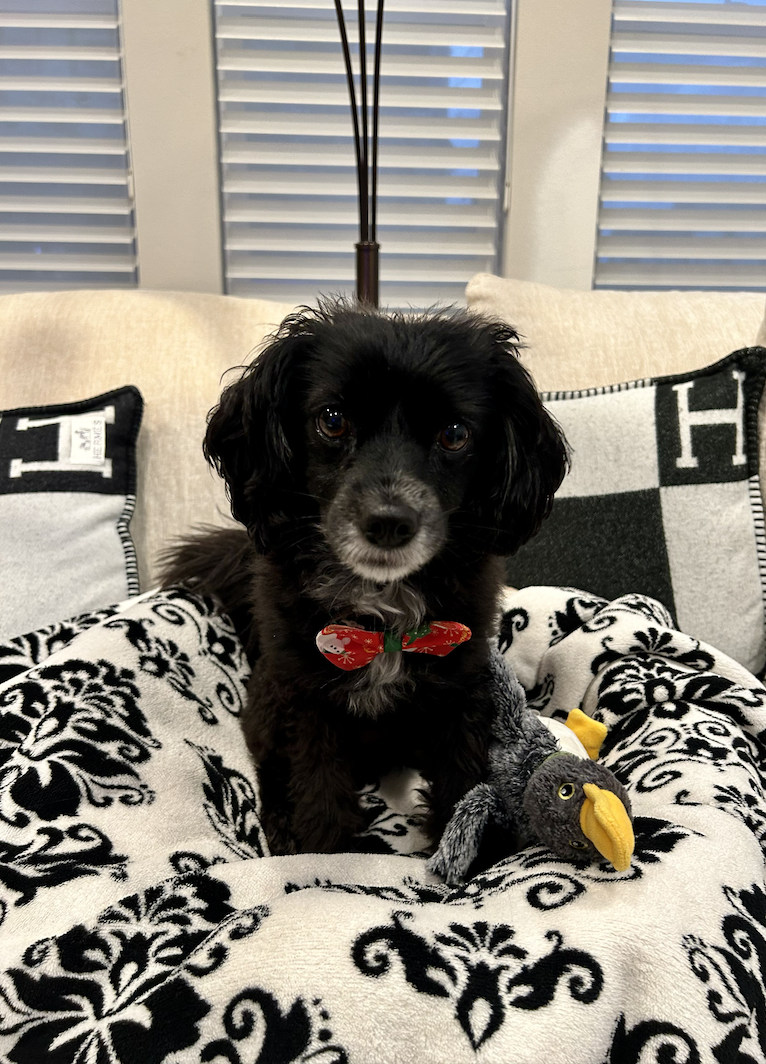
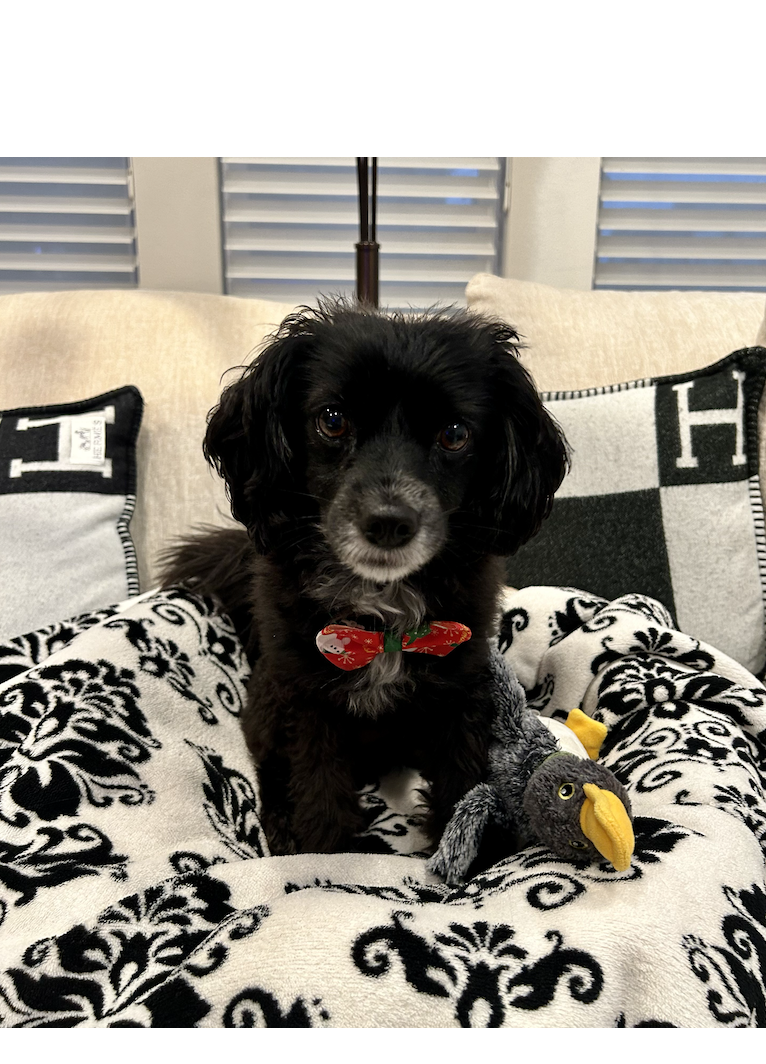
resume reformat, picture crop

Changed region(s): [[0.0, 0.0, 1.0, 0.1551], [0.0, 0.9615, 1.0, 1.0]]

diff --git a/style.css b/style.css
@@ -13,6 +13,8 @@ body {
 :root {
   /* One place to define the accent color; everything else refers to it by name */
   --color-accent: oklch(70% 35% 300);
+  /* A darker version of the accent (same hue and colorfulness) that is readable as text */
+  --color-accent-dark: oklch(from var(--color-accent) 45% c h);
 }
 
 body {
@@ -138,4 +140,114 @@ h6 {
   /* Never let the photo be wider than the screen */
   max-width: 100%;
   height: auto;
+}
+
+/* ---------- Resume page ---------- */
+
+.resume section {
+  /* Lavender line separating each section from the one above */
+  border-top: 1px solid var(--color-accent);
+  padding-block: 1.5em;
+}
+
+.resume h2 {
+  /* Section names act as small labels rather than big headings */
+  margin: 0 0 0.75em;
+  font-size: 1em;
+  text-transform: uppercase;
+  letter-spacing: 0.08em;
+  color: var(--color-accent-dark);
+}
+
+@media (min-width: 45em) {
+  /* On wide screens only: section name in a narrow left column, content on the right */
+  .resume section {
+    display: grid;
+    grid-template-columns: 10em 1fr;
+    column-gap: 2em;
+  }
+
+  .resume section > * {
+    grid-column: 2;
+  }
+
+  .resume section > h2 {
+    grid-column: 1;
+    grid-row: 1;
+  }
+}
+
+.resume section > p {
+  margin: 0;
+}
+
+.resume article + article {
+  /* Space between entries, but not above the first one */
+  margin-top: 1.5em;
+}
+
+.resume article header {
+  /* Title on the left, date/location pushed to the right;
+     the right part wraps underneath when there isn't room */
+  display: flex;
+  flex-wrap: wrap;
+  justify-content: space-between;
+  align-items: baseline;
+  column-gap: 1em;
+}
+
+.resume article h3 {
+  margin: 0;
+  font-size: 1em;
+}
+
+.resume article header p {
+  margin: 0;
+  font-size: 0.9em;
+  color: oklch(50% 3% 300);
+}
+
+.resume article header p + p {
+  /* A second detail line (the tools used) gets a full row of its own */
+  flex-basis: 100%;
+}
+
+.resume article ul {
+  margin: 0.5em 0 0;
+  padding-left: 1.2em;
+}
+
+.resume a {
+  color: var(--color-accent-dark);
+}
+
+.skills {
+  /* Category names in one column, their tags in the other */
+  display: grid;
+  grid-template-columns: auto 1fr;
+  gap: 0.6em 1em;
+  align-items: baseline;
+}
+
+.skills h3 {
+  margin: 0;
+  font-size: 1em;
+}
+
+.skills ul {
+  /* Turn the list into a row of tags that wraps onto new lines */
+  display: flex;
+  flex-wrap: wrap;
+  gap: 0.4em;
+  margin: 0;
+  padding: 0;
+  list-style: none;
+}
+
+.skills li {
+  /* The pill shape: pale accent background with fully rounded ends */
+  padding: 0.1em 0.75em;
+  border-radius: 1em;
+  font-size: 0.9em;
+  background-color: oklch(from var(--color-accent) 95% 5% h);
 }

diff --git a/resume/index.html b/resume/index.html
@@ -20,6 +20,7 @@
 
     <h1>Sophie Xie</h1>
 
+    <main class="resume">
     <section>
         <h2>Summary</h2>
         <p>Student passionate about turning data into insights through quantitative analysis. Flexible and eager to
@@ -29,12 +30,39 @@
 
     <section>
         <h2>Skills</h2>
-        <ul>
-            <li><strong>Languages:</strong> Python, R, C++, SQLite</li>
-            <li><strong>Libraries:</strong> Pandas, NumPy, Matplotlib, Scikit-Learn, NLTK, BeautifulSoup</li>
-            <li><strong>Tools/Frameworks:</strong> Claude Code, Git, Jupyter Notebooks, LaTeX</li>
-            <li><strong>Concepts:</strong> Regression Analysis, Hypothesis Testing, Gradient Descent, Random Forest, Permutation Tests</li>
-        </ul>
+        <div class="skills">
+            <h3>Languages</h3>
+            <ul>
+                <li>Python</li>
+                <li>R</li>
+                <li>C++</li>
+                <li>SQLite</li>
+            </ul>
+            <h3>Libraries</h3>
+            <ul>
+                <li>Pandas</li>
+                <li>NumPy</li>
+                <li>Matplotlib</li>
+                <li>Scikit-Learn</li>
+                <li>NLTK</li>
+                <li>BeautifulSoup</li>
+            </ul>
+            <h3>Tools/Frameworks</h3>
+            <ul>
+                <li>Claude Code</li>
+                <li>Git</li>
+                <li>Jupyter Notebooks</li>
+                <li>LaTeX</li>
+            </ul>
+            <h3>Concepts</h3>
+            <ul>
+                <li>Regression Analysis</li>
+                <li>Hypothesis Testing</li>
+                <li>Gradient Descent</li>
+                <li>Random Forest</li>
+                <li>Permutation Tests</li>
+            </ul>
+        </div>
     </section>
 
     <section>
@@ -105,5 +133,6 @@
             </ul>
         </article>
     </section>
+    </main>
 </body>
 </html>
